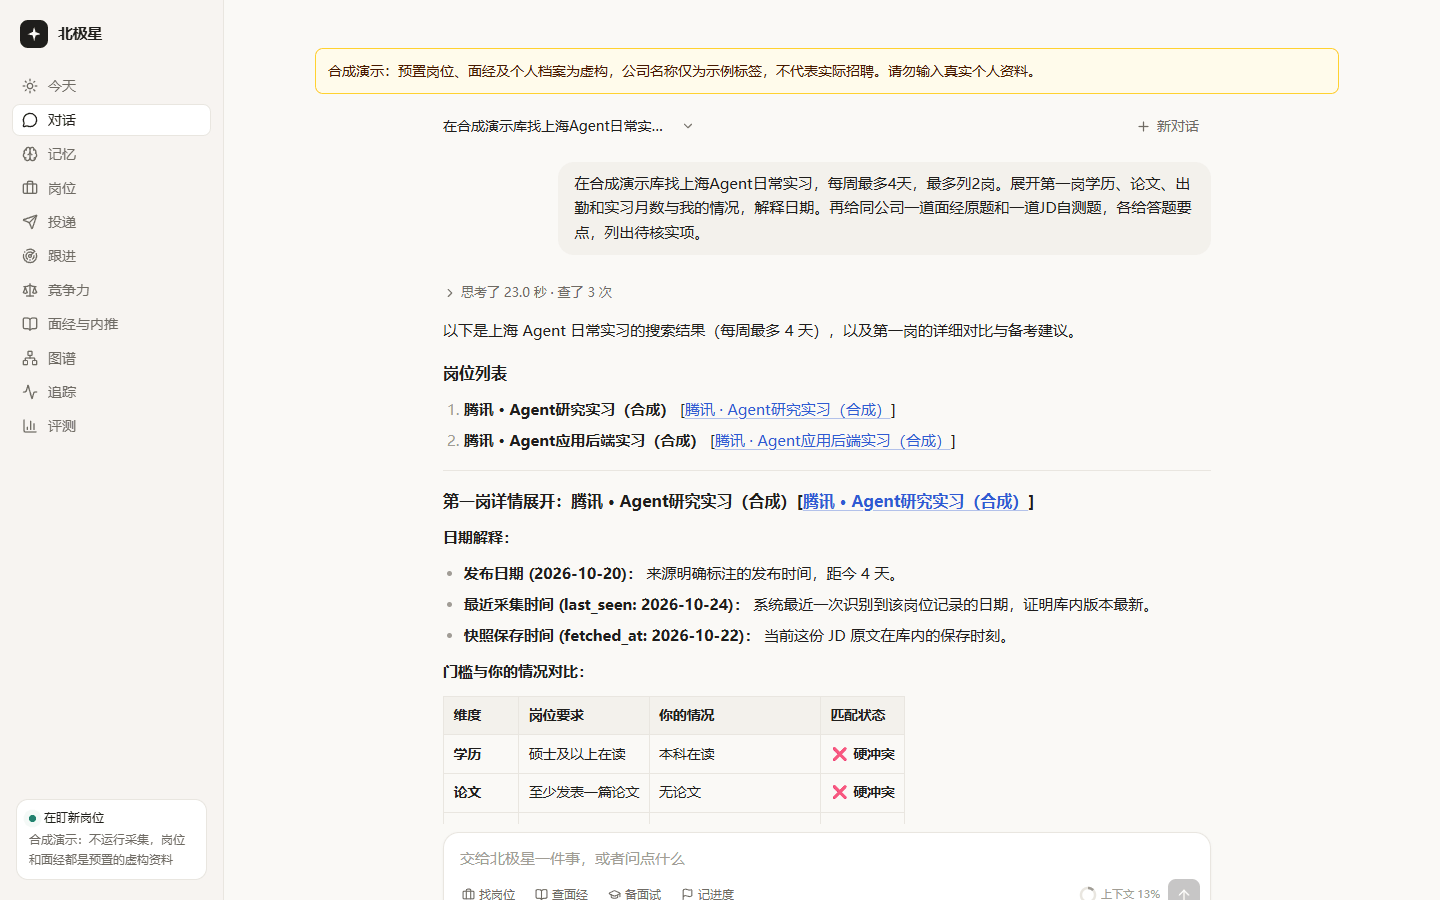
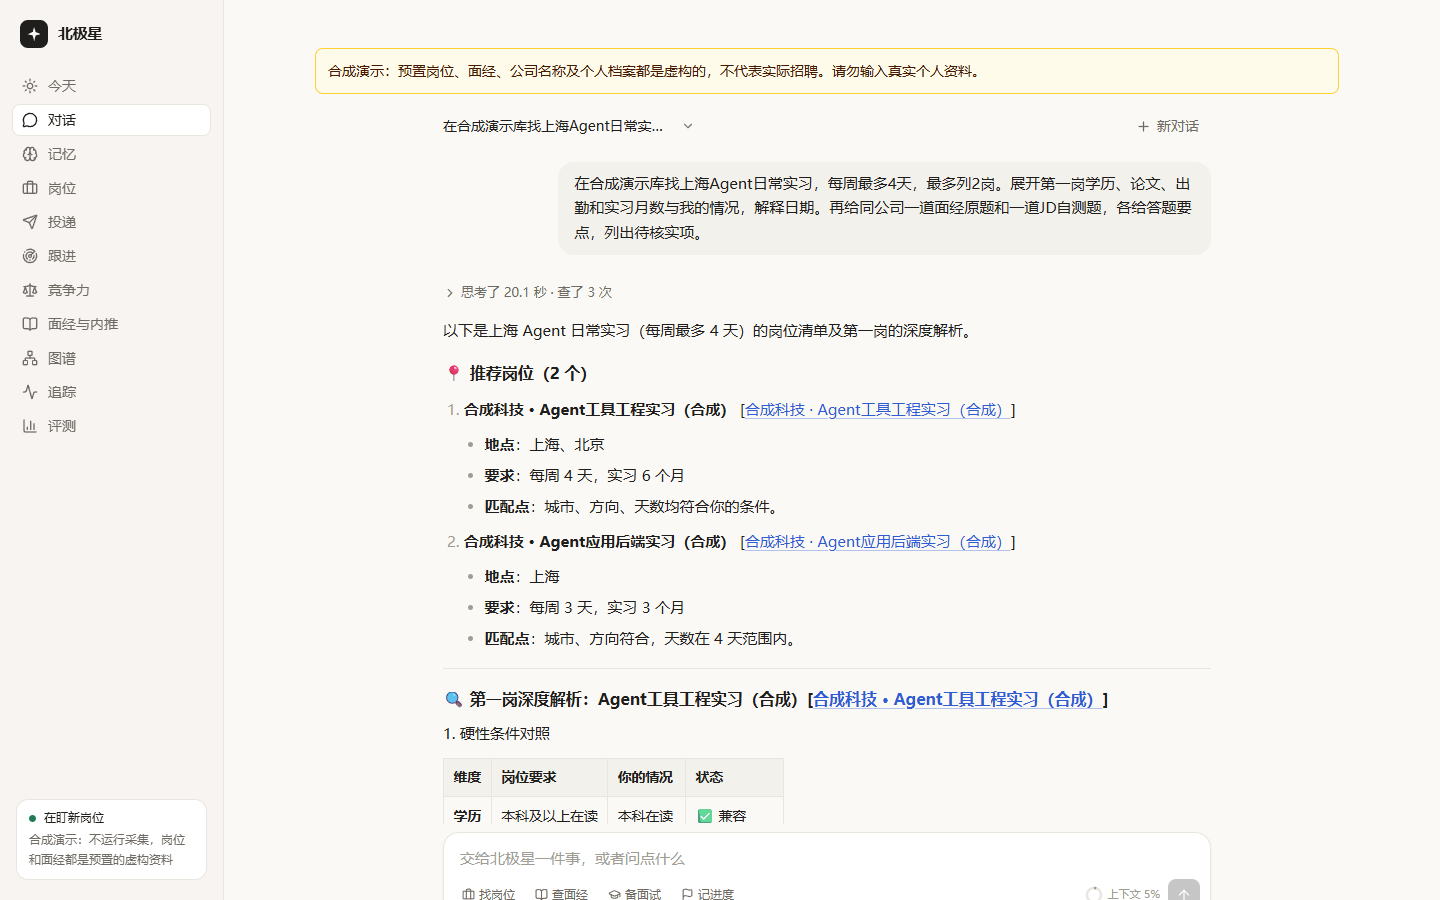
Retake the demo screenshots on the v3 fixture (#37)
The local demo was re-seeded from an empty database with the
fictional company (#18), then walked through its story: one full
chat task, a visitor's applied / interview / rejected marks on J-2,
the four-step follow-up card script with its report, and the
competitiveness page. The report now says "at most 4 days" as the
profile does (#12), and no real company name appears.

diff --git a/README.en.md b/README.en.md
@@ -11,9 +11,9 @@
 
 The author uses it for their own internship search. It is also their entry to the Nebius × NVIDIA Global AI Hackathon, Personal AI track. The interface and the documents are in Chinese, because the users and the sources are.
 
-![Chat: jobs found under the user's constraints, education, paper and attendance compared item by item, three dates explained separately](docs/img/demo-chat.png)
+![Chat: jobs found under the user's constraints, with why each fits and a check of the hard requirements](docs/img/demo-chat.png)
 
-<sub>All screenshots come from the [synthetic demo](docs/DEMO.md): jobs, interview posts and the profile are invented, and company names are only labels.</sub>
+<sub>All screenshots come from the [synthetic demo](docs/DEMO.md): jobs, interview posts, company names and the profile are all invented.</sub>
 
 ## What it does
 

diff --git a/README.md b/README.md
@@ -11,9 +11,9 @@
 
 作者自己找实习时就在用它，它也是作者参加 Nebius × NVIDIA Global AI Hackathon（Personal AI 赛道）的作品。
 
-![对话：按条件找岗位，逐项对照学历、论文、出勤，分开解释三个日期](docs/img/demo-chat.png)
+![对话：按条件找岗位，列出匹配点，再逐项对照硬性条件](docs/img/demo-chat.png)
 
-<sub>截图全部来自[合成演示](docs/DEMO.md)：岗位、面经和个人档案都是虚构的，公司名只是示例标签。</sub>
+<sub>截图全部来自[合成演示](docs/DEMO.md)：岗位、面经、公司名和个人档案都是虚构的。</sub>
 
 ## 能做什么
 
